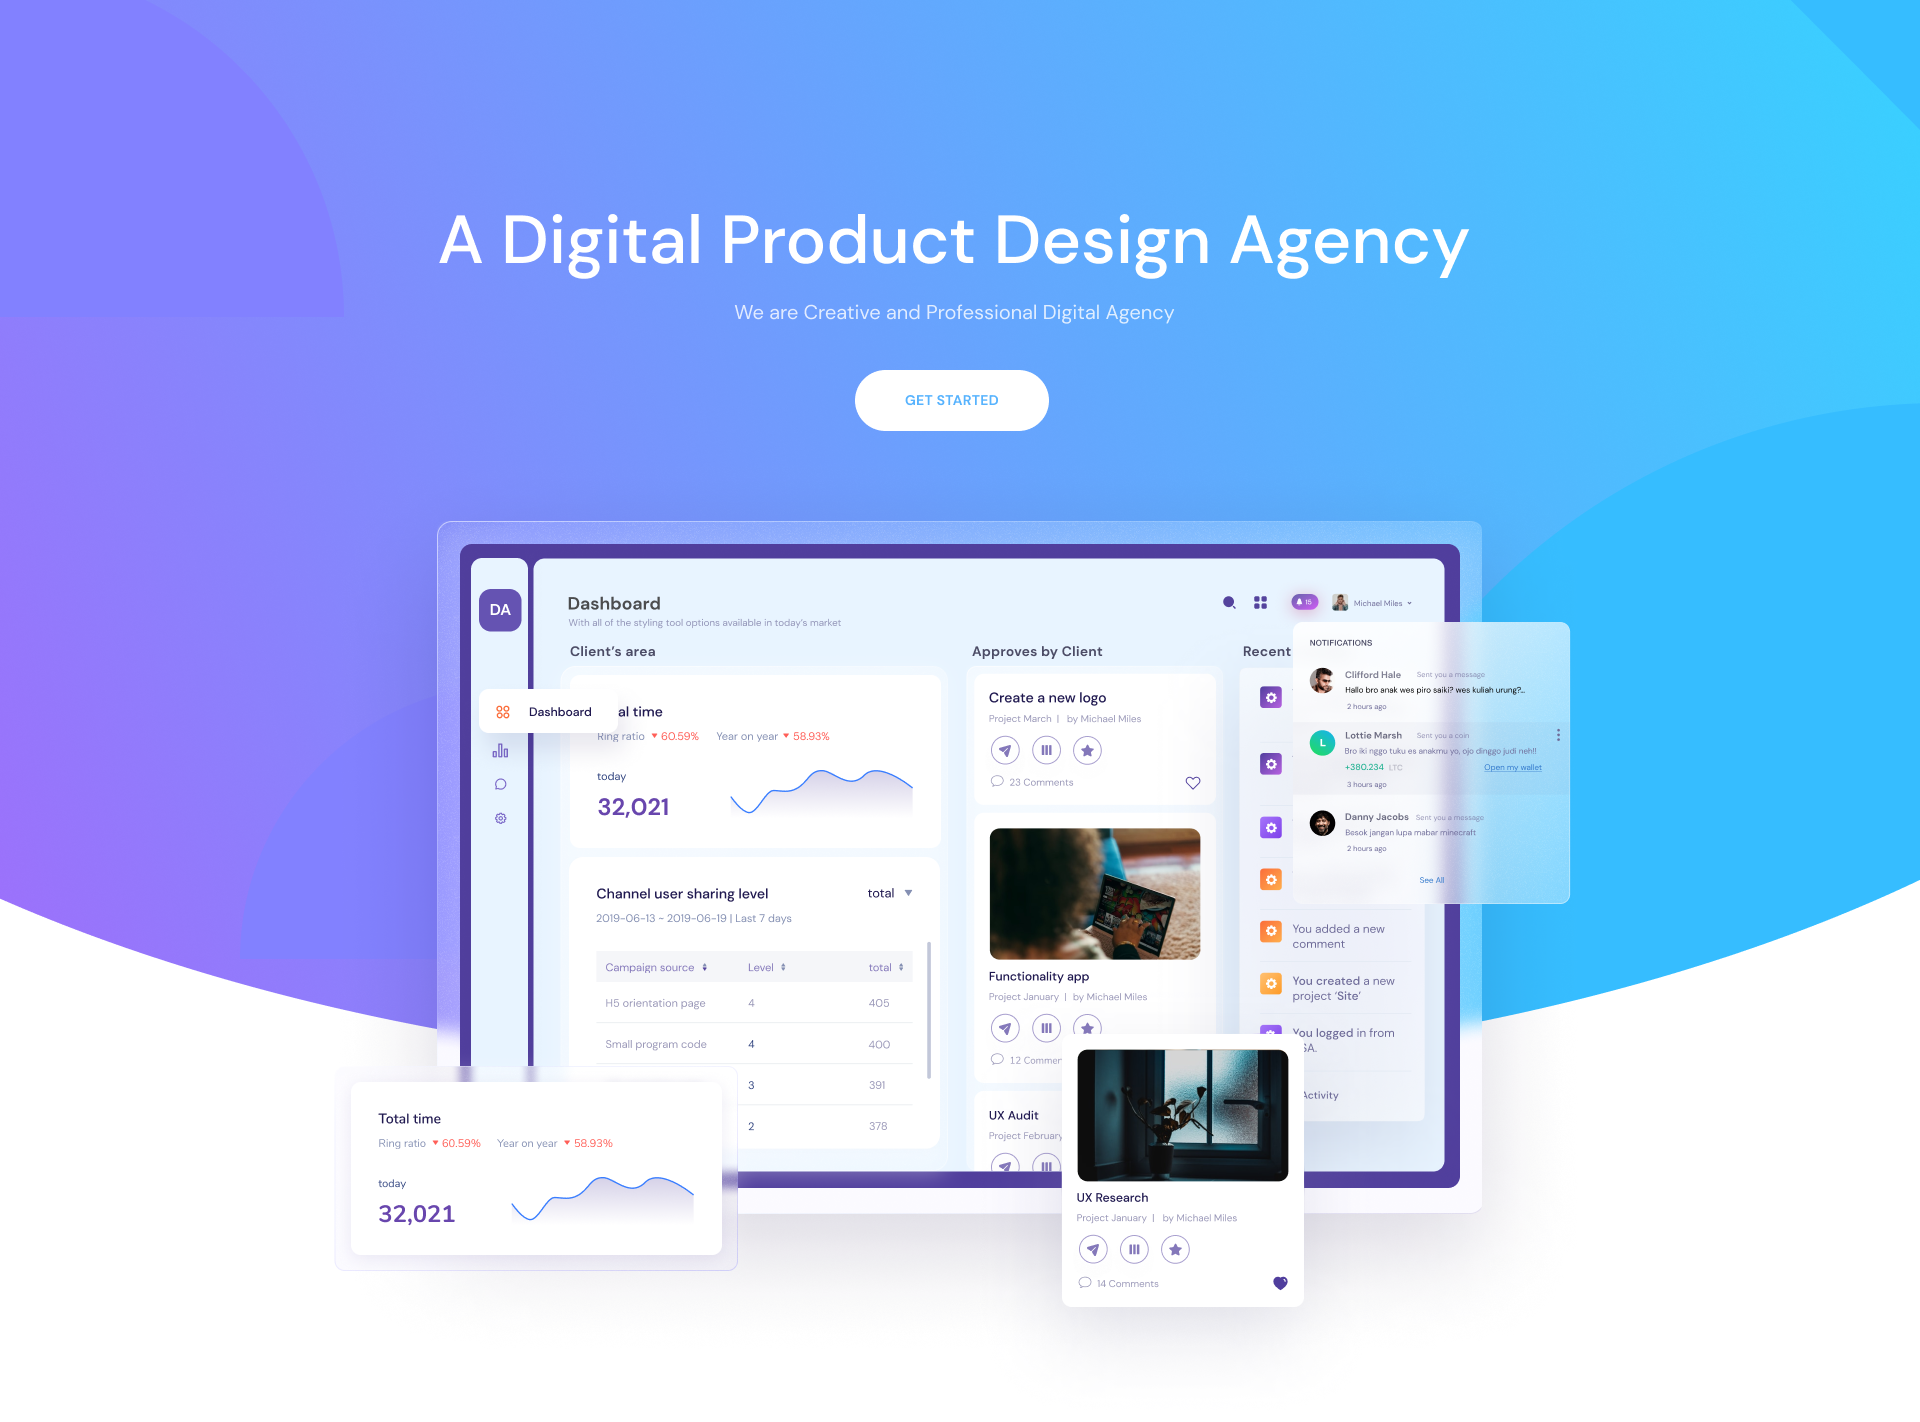
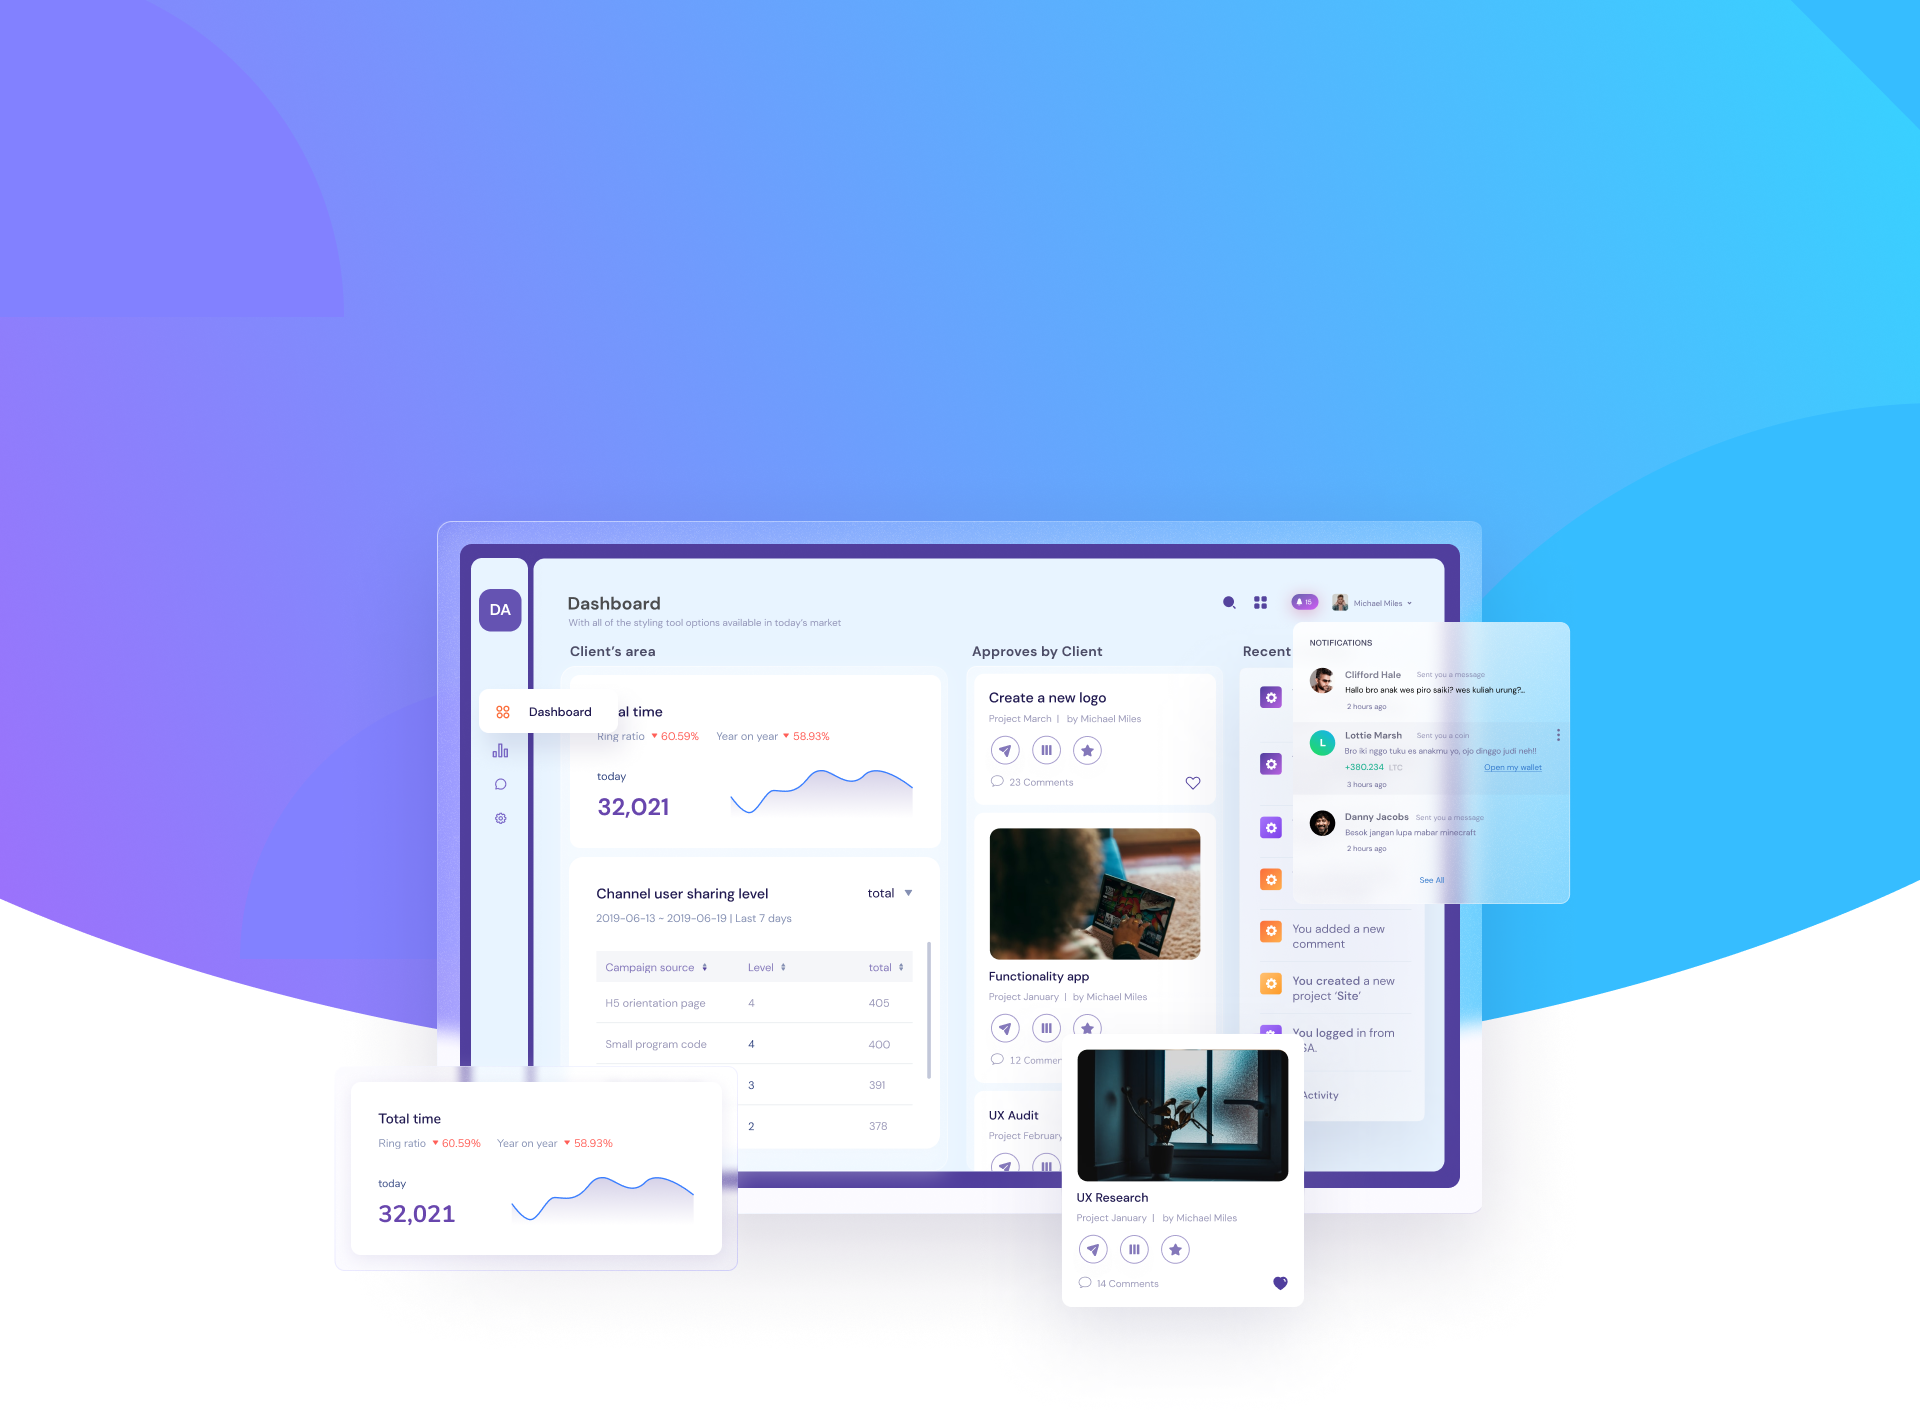
Commit
made 320

Changed region(s): [[0.2188, 0.1547, 0.7812, 0.2166], [0.4375, 0.2166, 0.5938, 0.3094]]

diff --git a/css/style.css b/css/style.css
@@ -13,7 +13,7 @@ body {
    height: 0;
    padding-bottom: 77%;
    margin: auto;
-   background: url(../image/HERO.png) no-repeat; 
+   background: url(../image/HERO_1.png) no-repeat; 
    /* background: url(../image/hero-img.png) no-repeat,
    url(../image/hero-phone.png) no-repeat; */
    background-color: #F9F8FF;  
@@ -112,7 +112,7 @@ body {
 .card {
    /* width: 370px; */
    width: 33%;
-   height: auto;
+   min-height: 100%;
    background-color: #fff;
    box-shadow: 0px 20px 50px rgba(59, 62, 67, 0.05);
    border-radius: 15px;
@@ -594,6 +594,11 @@ body {
 }
 
 /* end footer */
+@media(max-width: 1313px) {
+   .logo {
+      max-width: 15%;
+   }
+}
 
 @media (max-width: 1250px) {
    body {
@@ -606,7 +611,7 @@ body {
       margin-right: 15px;
    }
    .logo {
-      max-width: 150px;
+      max-width: 20%;
    }
    .logo-img {
       width: 100%;;
@@ -660,10 +665,14 @@ body {
 
 @media (max-width: 972px) {
    .logo {
-      max-width: 130px;
+      max-width: 20%;
+      margin: auto;
    }
-   .logo-img {
+   .logo-img {      
       width: 100%;
+   }
+   .navbar-text {
+      font-size: 10px;
    }
    .brands-title {
       font-size: 2em;
@@ -700,7 +709,7 @@ body {
    .navbar-nav {
       display: flex;       
       top: 20px;
-      left: -360px;
+      left: -550px;
       position: relative;
    }
    .navbar-menu {
@@ -749,9 +758,14 @@ body {
    }
 }
 
+@media (max-width: 710px) {
+   .navbar-nav {
+      left: -480px;
+   }
+
 @media (max-width: 650px) {
    .navbar-nav {      
-      left: -250px;      
+      left: -400px;      
    }
    .process-audid-img {
       display: none;
@@ -782,18 +796,48 @@ body {
    }
 }
 
-@media (max-width: 470px) {
+@media (max-width: 552px) {
    .navbar-nav {
-      left: -150px;
+      left: -340px;
+   }
+
+@media (max-width: 490px) {
+   .navbar-nav {
+      left: -300px;
+   }
+
+@media (max-width: 470px) {
+   .header {
+      /* max-width: 100%;
+      height: 0;
+      padding-bottom: 77%;
+      margin: auto;
+      background: url(../image/HERO.png) no-repeat;
+      background-color: #F9F8FF;
+      background-size: 100% auto; */
+      /* адаптивное фоновое изображение */
+      min-width: 100%;
+      height: 0;
+      padding-bottom: 80%;
+      margin: auto;
+      background: url(../image/HERO.png) no-repeat;
+      background-color: #F9F8FF;
+      background-size: 100% auto;
+   }
+   .navbar-nav {
+      left: -100px;
    }
    .navbar-text {
       font-size: 8px;
    }
-   .header {
+   /* .header {
       height: 330px;
+   } */
+   .logo {
+      display: none;
    }
    .cards-title {
-      font-size: 36px;
+      font-size: 24px;
    }
    .card-box {
       flex-direction: column;

diff --git a/index.html b/index.html
@@ -366,7 +366,7 @@
                <div class="icon-instagram">
                   <img src="./image/Instagram.svg" alt="instagram" class="instagram">
                </div>
-               <div class="icon-instagram">
+               <div class="icon-twitter">
                   <img src="./image/Twitter.svg" alt="twitter" class="twitter">
                </div>
             </div>            
